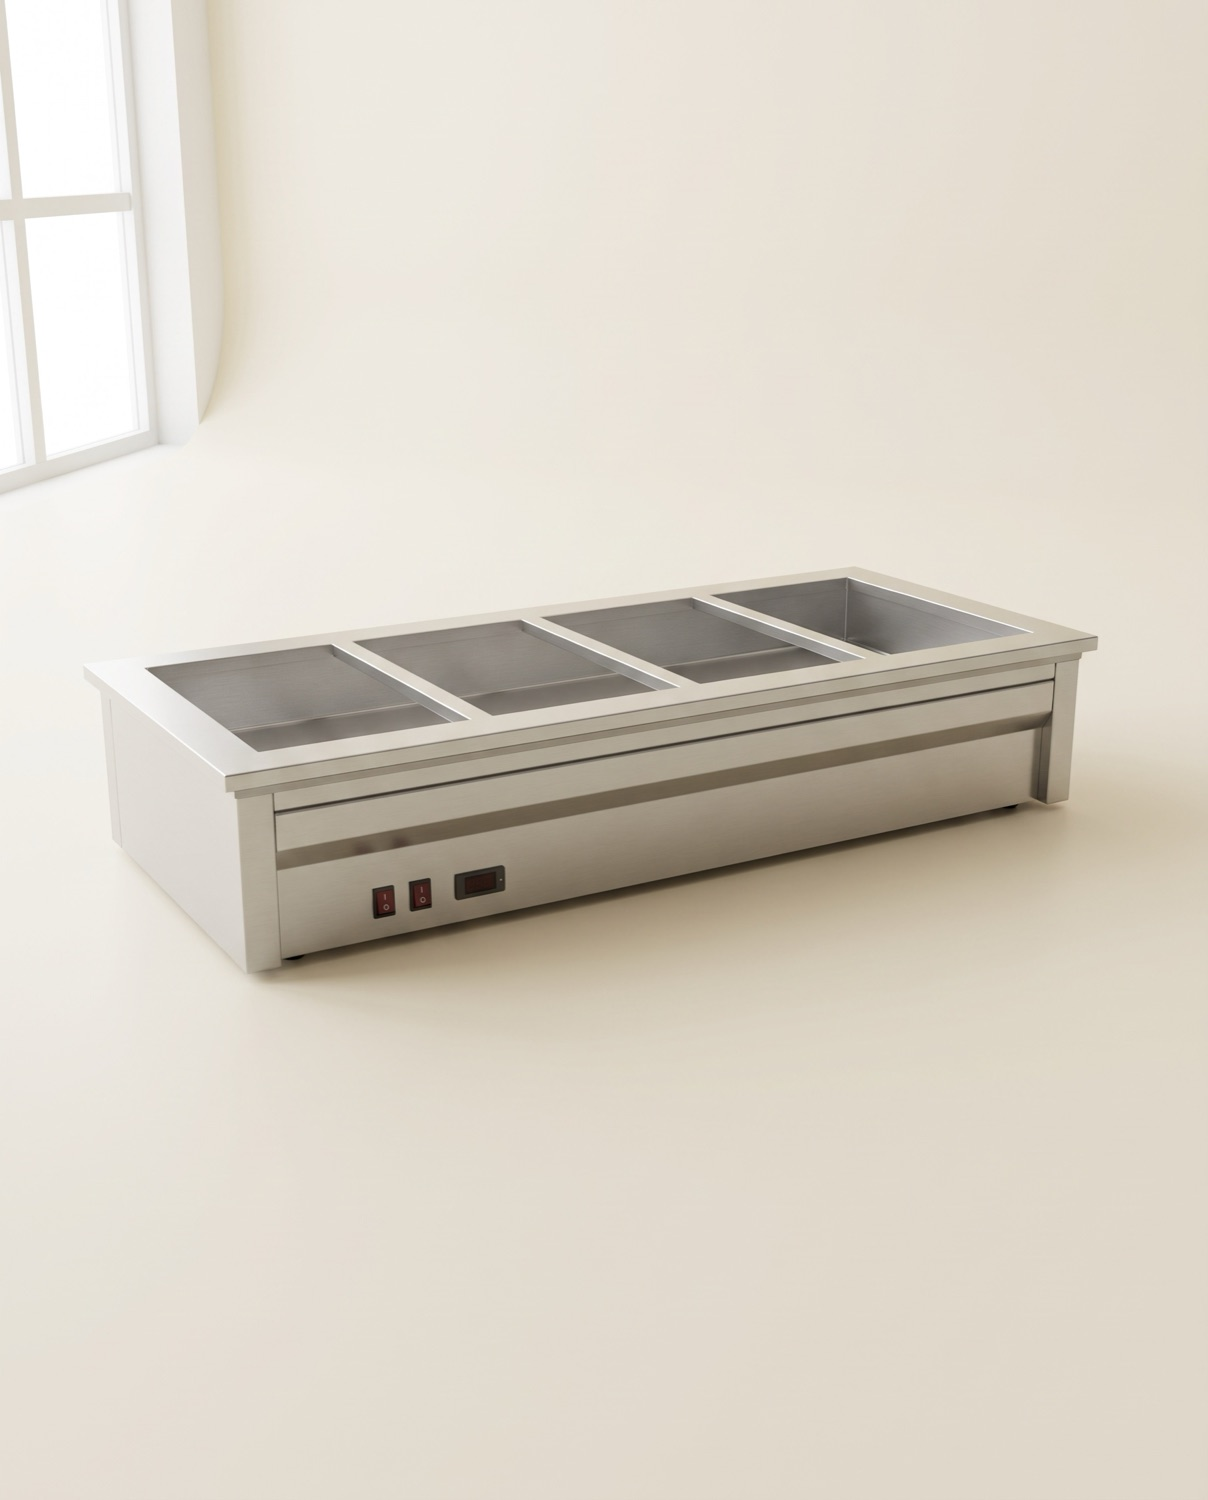
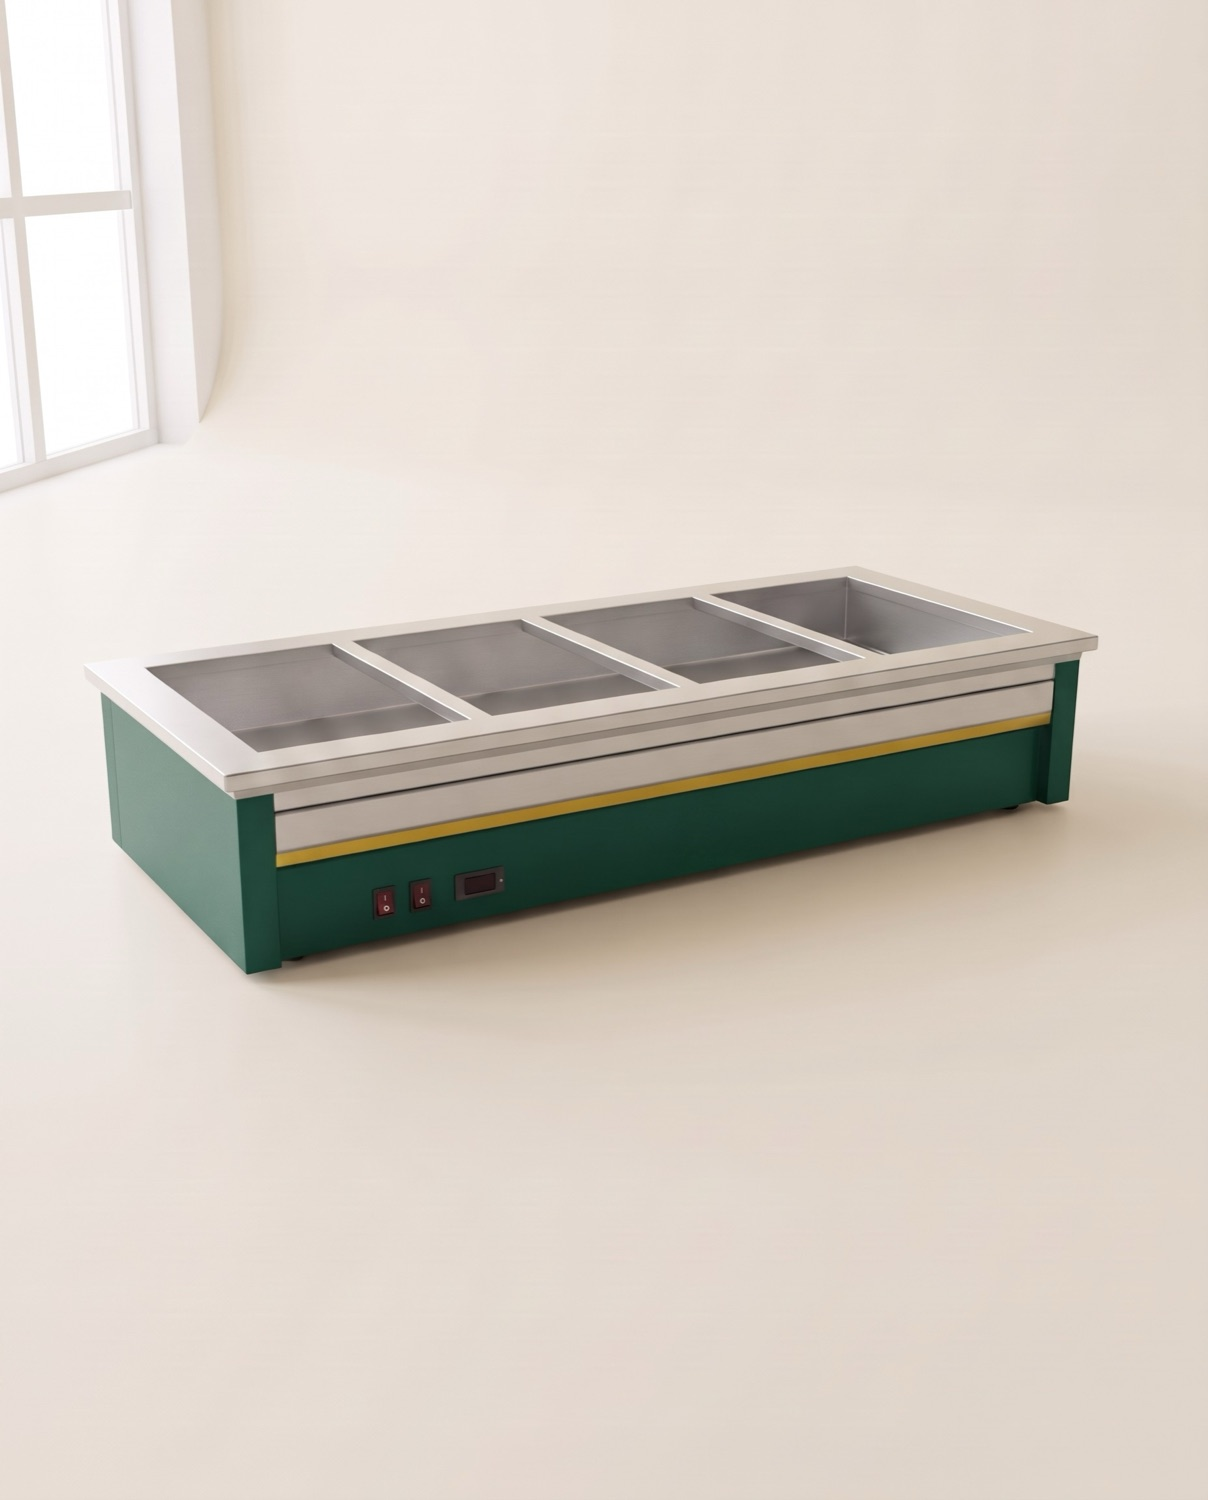
NFCH kitchen: the arms and machines in their colours and mark
Jesse: "render the arms and machines in their colours and branding". The
deck's machine pictures are now their deep green with their gold mark,
made from the same machines with nothing reshaped; the arms page gets its
arm. The unused auto-lift fryer render goes.

Changed region(s): [[0.0613, 0.4293, 0.9189, 0.6747]]

diff --git a/src/new-farm-curry-house-kitchen-slides.html b/src/new-farm-curry-house-kitchen-slides.html
@@ -282,10 +282,11 @@
 </section>
 
 <section class="stage" id="s{{i}}" data-nk="machines" aria-label="Slide {{i}}. New: the two arms">
-  <div class="slide"><div class="in nf nk nk-pg">
+  <div class="slide"><div class="in nf nk nk-pg nk-has-pic">
     <p class="lab r">New: the two arms</p>
     <h2 class="l r">Two arms do the heavy middle of every order.</h2>
     <p class="lede r">On fixed pedestals by the island, inside an aisle of their own: the curry arm loads both finishing stations and lifts each curry to the pass, the fry arm works the fryer. Your people stay outside it, at the burners, the tandoor, the pass and the pack bench.</p>
+    <div class="nk-figs r"><figure class="nk-pic"><img src="{{root}}img/deck/nfch/machines/arms-light.jpg" width="1208" height="1500" alt="Curry arm, concept render" loading="lazy"><figcaption>Concept render</figcaption></figure></div>
     <dl class="nk-mach r">
       <dt class="nk-st">Curry arm<span class="nk-new">New</span></dt><dd class="nk-st"></dd>
       <dt>Loads the finishing stations</dt>

diff --git a/deck/new-farm-curry-house-kitchen/index.html b/deck/new-farm-curry-house-kitchen/index.html
@@ -784,10 +784,11 @@
 </section>
 
 <section class="stage" id="s8" data-nk="machines" aria-label="Slide 8. New: the two arms">
-  <div class="slide"><div class="in nf nk nk-pg">
+  <div class="slide"><div class="in nf nk nk-pg nk-has-pic">
     <p class="lab r">New: the two arms</p>
     <h2 class="l r">Two arms do the heavy middle of every order.</h2>
     <p class="lede r">On fixed pedestals by the island, inside an aisle of their own: the curry arm loads both finishing stations and lifts each curry to the pass, the fry arm works the fryer. Your people stay outside it, at the burners, the tandoor, the pass and the pack bench.</p>
+    <div class="nk-figs r"><figure class="nk-pic"><img src="../../img/deck/nfch/machines/arms-light.jpg" width="1208" height="1500" alt="Curry arm, concept render" loading="lazy"><figcaption>Concept render</figcaption></figure></div>
     <dl class="nk-mach r">
       <dt class="nk-st">Curry arm<span class="nk-new">New</span></dt><dd class="nk-st"></dd>
       <dt>Loads the finishing stations</dt>
